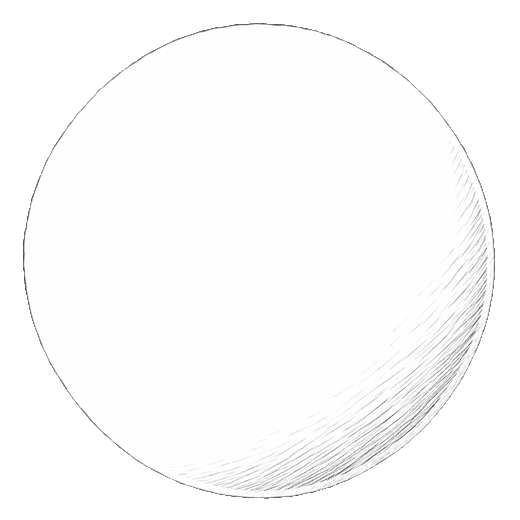
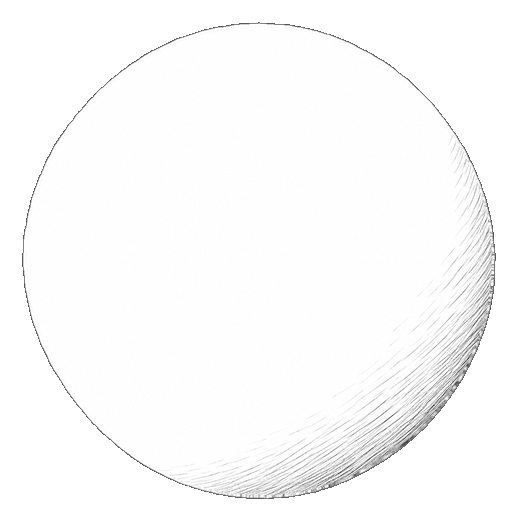
Give the globe one outline and a slight shadow
Astra's hatching now runs out to a single thin outline, the land meets that outline all the way round, and the globe has a soft shadow below it.

Claude-Session: https://claude.ai/code/session_0199Xr6YvZPiSu8d5JWb3RJ9

diff --git a/about/about.html b/about/about.html
@@ -36,7 +36,7 @@
 <meta name="description" content="Pundir is the author and editor of Artificial Minds. He is based in Brooklyn, NY. This page has a form for sending him a message.">
 <link rel="stylesheet" href="../fonts/fonts.css">
 <style>
-:root{color-scheme:light;--paper:#ffffff;--tint:#f2f2f2;--ink:#111111;--ink-soft:#3a3a3a;--ink-faint:#666666;--ink-ghost:#a8a8a8;--rule:#dadada;--frame:#cccccc;--accent:#c3261c;--engrave:#555555;--measure:34rem;--sheet:50rem;--s1:.5rem;--s2:1rem;--s3:1.62rem;--s4:2.6rem;--s5:4rem;--serif:var(--family-house-text, "Iowan Old Style", "Palatino Linotype", Palatino, Georgia, serif);--sans:var(--family-house-label, -apple-system, BlinkMacSystemFont, "Segoe UI", "Helvetica Neue", Helvetica, Arial, sans-serif);--mono:var(--family-house-mono, ui-monospace, "SF Mono", Menlo, Consolas, "Liberation Mono", monospace)}
+:root{color-scheme:light;--paper:#ffffff;--tint:#f2f2f2;--ink:#111111;--ink-soft:#3a3a3a;--ink-faint:#666666;--ink-ghost:#a8a8a8;--rule:#dadada;--frame:#cccccc;--accent:#c3261c;--engrave:#555555;--shadow:rgba(17,17,17,.18);--measure:34rem;--sheet:50rem;--s1:.5rem;--s2:1rem;--s3:1.62rem;--s4:2.6rem;--s5:4rem;--serif:var(--family-house-text, "Iowan Old Style", "Palatino Linotype", Palatino, Georgia, serif);--sans:var(--family-house-label, -apple-system, BlinkMacSystemFont, "Segoe UI", "Helvetica Neue", Helvetica, Arial, sans-serif);--mono:var(--family-house-mono, ui-monospace, "SF Mono", Menlo, Consolas, "Liberation Mono", monospace)}
 /* type.css begin */
 /* type.css: the Artificial Minds type roles (29 October 2026)
 
@@ -147,6 +147,7 @@ main{display:grid;grid-template-columns:minmax(0,1fr) minmax(0,1fr);column-gap:v
 /* The globe: Astra's ink map turns inside her drawing of the sphere. Red is Brooklyn. */
 .globe{position:relative;margin:var(--s3) 0 0;width:11rem;max-width:60%;aspect-ratio:1}
 .globe .still,.globe canvas,.globe .mark{position:absolute;inset:0;width:100%;height:100%;display:block}
+.globe .still,.globe canvas{filter:drop-shadow(0 .32rem .5rem var(--shadow))}   /* a slight shadow under the globe */
 .globe .mark{overflow:visible}
 .globe .here{fill:var(--accent)}
 .globe .pulse{fill:none;stroke:var(--accent);stroke-width:5;opacity:0}
@@ -670,7 +671,7 @@ footer{margin-top:var(--s4);padding-top:var(--s2);border-top:1px solid var(--rul
       if (!al) continue;
       var g0 = ball[k*4];
       var u = ((x + .5)/N - CXN)/RN, v = -(((y + .5)/N - CYN)/RN), r2 = u*u + v*v;
-      if (r2 > 1){ px[k] = (al << 24) | (g0 << 16) | (g0 << 8) | g0; continue; }
+      if (r2 > .998){ var q = Math.sqrt(.998/r2); u *= q; v *= q; r2 = .998; }   /* a point just past the sphere's edge reads the edge, so the land meets the outline */
       var z = Math.sqrt(1 - r2), sp = v*C0 + z*S0, lam = Math.atan2(u, z*C0 - v*S0);
       var row = Math.min(TH - 1, Math.max(0, Math.floor((Math.PI/2 - Math.asin(Math.max(-1, Math.min(1, sp))))/Math.PI*TH)));
       idx.push(k); rows.push(row*TW); cols.push((lam/D + 180)/360*TW); shade.push(g0 | (al << 8));
